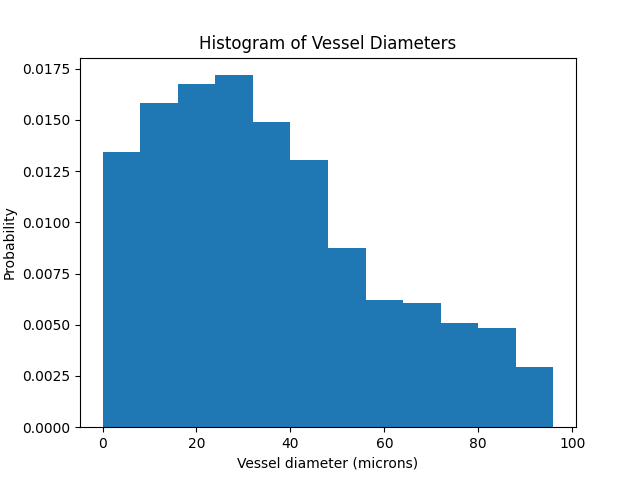
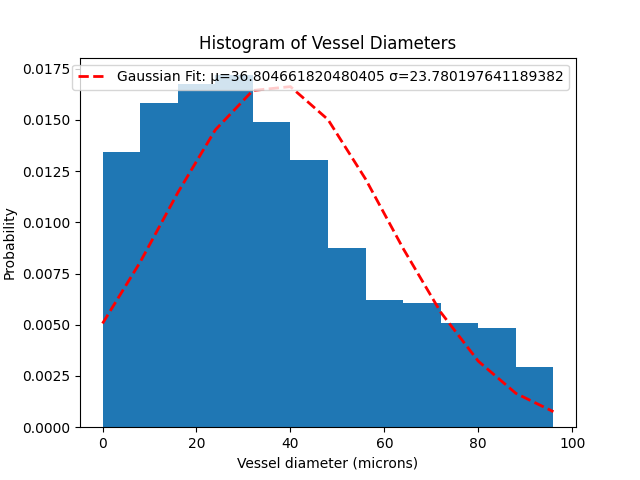
Gaussian fits

diff --git a/data-analysis/src/visualization.py b/data-analysis/src/visualization.py
@@ -4,12 +4,13 @@ Module for data analysis (visualization).
 from typing import List
 
 import numpy as np
+
 from measurement import Measurement
 from diameter_measurement import DiameterMeasurement, filter_diameter_measurements
 from branch_measurement import BranchMeasurement
 from file_utils import save_figure
 import matplotlib.pyplot as plt
-
+from scipy.stats import norm
 
 HISTOGRAM_BIN_WIDTH = np.sqrt(2) + 0.0000001
 MAX_DIAMETER = 100  # in microns
@@ -81,6 +82,12 @@ def generate_histogram(measurements: List[DiameterMeasurement], output_folder_pa
     plt.title('Histogram of Vessel Diameters')
     plt.ylabel('Probability')
     plt.xlabel(f'Vessel diameter {"(pixels)" if pixel_measurements else "(microns)"}')
+
+    # Gaussian Fit
+    (mu, sigma) = norm.fit(diameters)
+    y = norm.pdf(bins, mu, sigma)
+    plt.plot(bins, y, 'r--', linewidth=2, label=f'Gaussian Fit: μ={mu} σ={sigma}')
+    plt.legend()
 
     save_path = output_folder_path + f'/{file_name}-hist.png'
     save_figure(save_path)
